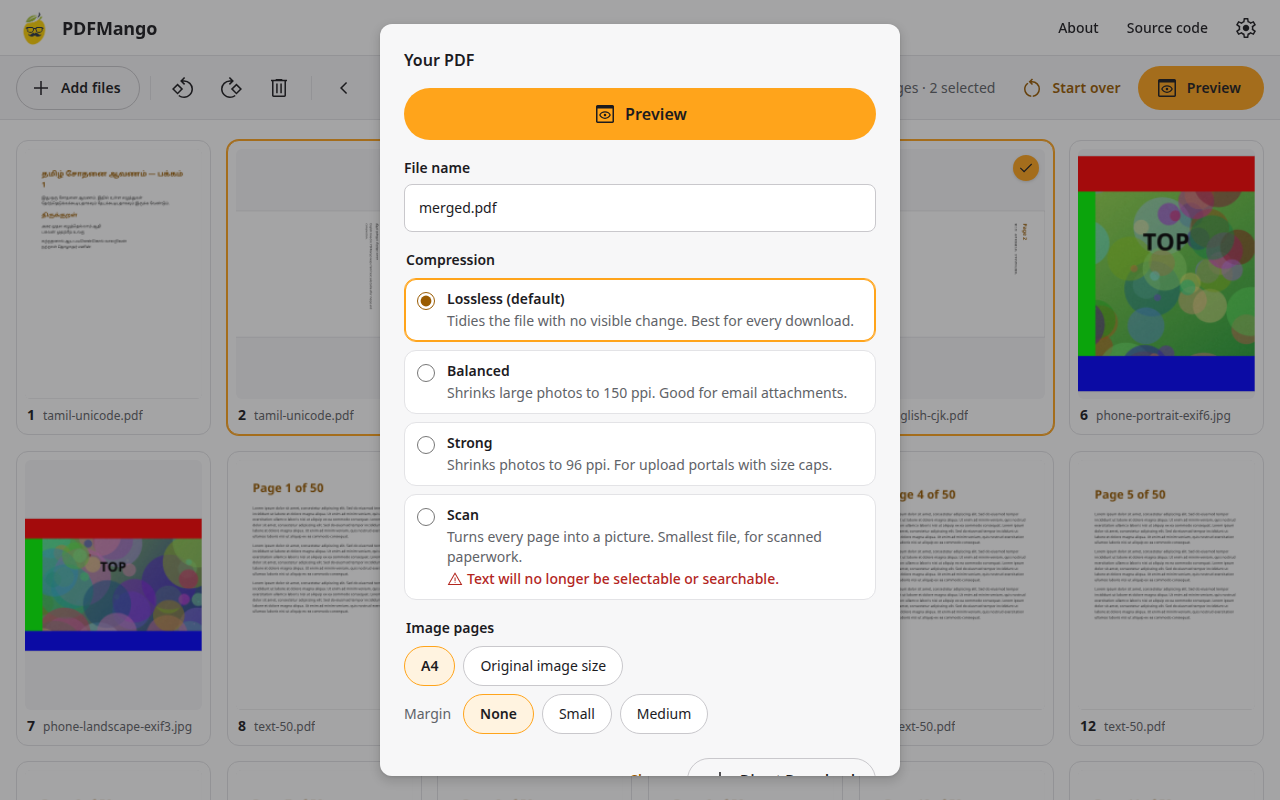
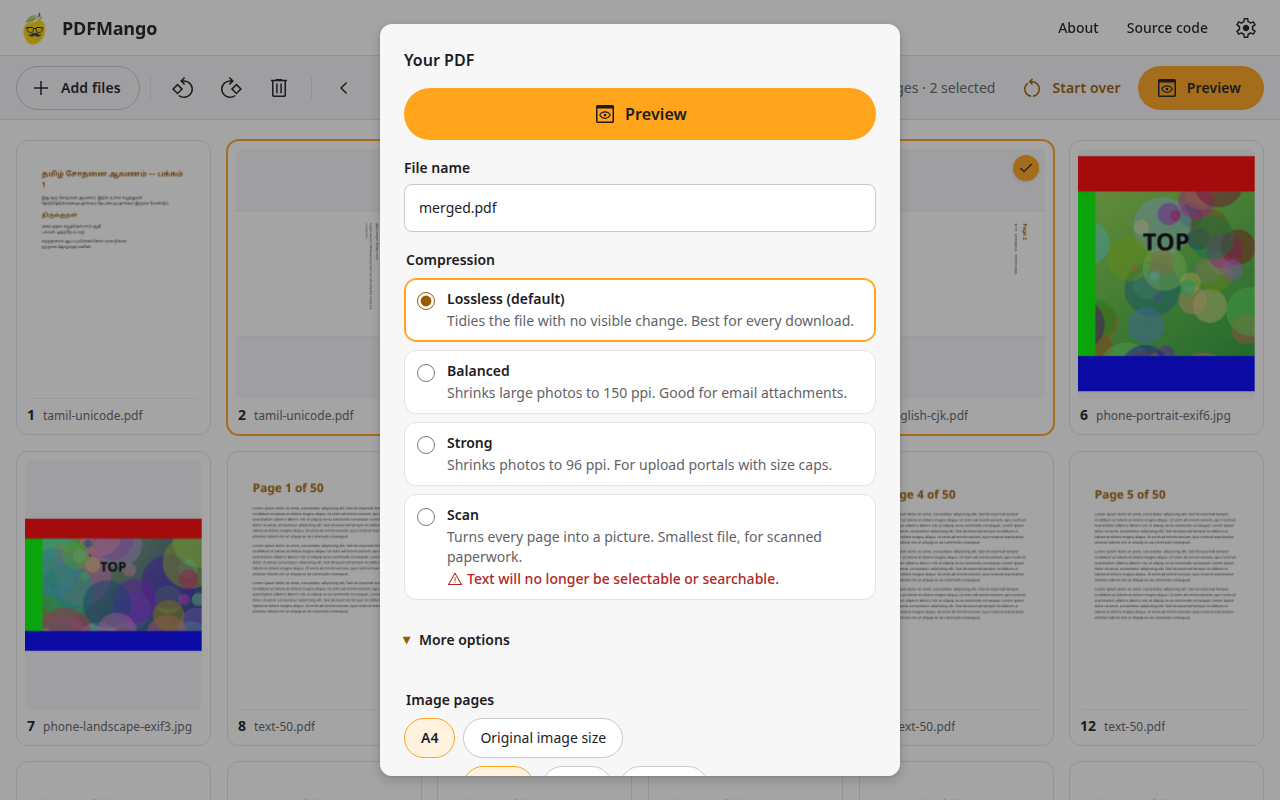
Preview: size and email check, Try another level; Share first on phones; shorter popup on phones
- Preview shows the file size up front with an email check (fine under
  10 MB; warns above) and a Try another level button that returns to the
  popup with every choice kept.
- On phones where sharing works, Share is the main button.
- The popup keeps the level, file name and image options for the rest of
  the visit; untouched values still follow new pages and Settings.
- On phones, Image pages and notes fold under "More options · N notes".

Claude-Session: https://claude.ai/code/session_01HY5Sj5pXtUsR9CEWAk1fRC

Changed region(s): [[0.3125, 0.7812, 0.4688, 0.9375], [0.5, 0.875, 0.5312, 0.9062]]

diff --git a/src/components/DownloadDialog.svelte b/src/components/DownloadDialog.svelte
@@ -19,13 +19,24 @@
   let imageMargin = $state<ImageMargin>(settings.current.imageDefaultMargin);
   const levelList = $derived(levels(settings.current));
 
-  // Each time the dialog opens: a fresh default name, and image options from the visitor's settings.
+  // Choices are kept for the rest of the visit (so "Try another level" comes back to them). On each
+  // open, only values the visitor hasn't changed follow new defaults: the file name follows the pages,
+  // and the image options follow Settings.
   let wasOpen = false;
+  let lastDefaultName = '';
+  let lastDefaults = { size: settings.current.imageDefaultSize, margin: settings.current.imageDefaultMargin };
+  /** On phones the less common options start folded away to keep the sheet short. */
+  let moreOpen = $state(true);
   $effect(() => {
     if (open && !wasOpen) {
-      fileName = defaultFileName(app.usedSources());
-      imagePageSize = settings.current.imageDefaultSize;
-      imageMargin = settings.current.imageDefaultMargin;
+      const name = defaultFileName(app.usedSources());
+      if (!fileName.trim() || fileName === lastDefaultName) fileName = name;
+      lastDefaultName = name;
+      const s = settings.current;
+      if (s.imageDefaultSize !== lastDefaults.size) imagePageSize = s.imageDefaultSize;
+      if (s.imageDefaultMargin !== lastDefaults.margin) imageMargin = s.imageDefaultMargin;
+      lastDefaults = { size: s.imageDefaultSize, margin: s.imageDefaultMargin };
+      moreOpen = !matchMedia('(max-width: 720px)').matches;
     }
     wasOpen = open;
   });
@@ -101,26 +112,31 @@
       {/each}
     </fieldset>
 
-    {#if app.hasImagePages}
-      <fieldset disabled={job.running}>
-        <legend>Image pages</legend>
-        <div class="segmented" role="radiogroup" aria-label="Page size">
-          <label class:checked={imagePageSize === 'A4'}><input type="radio" value="A4" bind:group={imagePageSize} />A4</label>
-          <label class:checked={imagePageSize === 'original'}><input type="radio" value="original" bind:group={imagePageSize} />Original image size</label>
-        </div>
-        <div class="segmented" role="radiogroup" aria-label="Margin">
-          <span class="seg-label">Margin</span>
-          {#each MARGINS as m (m.id)}
-            <label class:checked={imageMargin === m.id}><input type="radio" value={m.id} bind:group={imageMargin} />{m.label}</label>
-          {/each}
-        </div>
-      </fieldset>
-    {/if}
+    {#if app.hasImagePages || notices.length}
+      <details class="more" bind:open={moreOpen}>
+        <summary>More options{notices.length ? ` · ${notices.length} ${notices.length === 1 ? 'note' : 'notes'}` : ''}</summary>
+        {#if app.hasImagePages}
+          <fieldset disabled={job.running}>
+            <legend>Image pages</legend>
+            <div class="segmented" role="radiogroup" aria-label="Page size">
+              <label class:checked={imagePageSize === 'A4'}><input type="radio" value="A4" bind:group={imagePageSize} />A4</label>
+              <label class:checked={imagePageSize === 'original'}><input type="radio" value="original" bind:group={imagePageSize} />Original image size</label>
+            </div>
+            <div class="segmented" role="radiogroup" aria-label="Margin">
+              <span class="seg-label">Margin</span>
+              {#each MARGINS as m (m.id)}
+                <label class:checked={imageMargin === m.id}><input type="radio" value={m.id} bind:group={imageMargin} />{m.label}</label>
+              {/each}
+            </div>
+          </fieldset>
+        {/if}
 
-    {#if notices.length}
-      <ul class="notices">
-        {#each notices as n (n)}<li><Icon name="info" size={18} /> {n}</li>{/each}
-      </ul>
+        {#if notices.length}
+          <ul class="notices">
+            {#each notices as n (n)}<li><Icon name="info" size={18} /> {n}</li>{/each}
+          </ul>
+        {/if}
+      </details>
     {/if}
   </form>
 
@@ -248,6 +264,34 @@
     position: absolute;
     opacity: 0;
     pointer-events: none;
+  }
+  .more {
+    display: flex;
+    flex-direction: column;
+    gap: 16px;
+  }
+  .more summary {
+    min-height: 44px;
+    display: flex;
+    align-items: center;
+    gap: 8px;
+    font-weight: 600;
+    cursor: pointer;
+    list-style: none;
+  }
+  .more summary::-webkit-details-marker {
+    display: none;
+  }
+  .more summary::before {
+    content: '▸';
+    color: var(--mango-ink);
+    transition: transform var(--motion) var(--ease);
+  }
+  .more[open] summary::before {
+    transform: rotate(90deg);
+  }
+  .more[open] > :global(*:not(summary)) {
+    margin-top: 12px;
   }
   .notices {
     display: flex;

diff --git a/src/components/ResultPreview.svelte b/src/components/ResultPreview.svelte
@@ -1,21 +1,25 @@
 <script lang="ts">
   import { canShareFiles, resultMessage, saveBuilt, shareBuilt, type BuiltPdf } from '../lib/actions.svelte';
   import { Comlink, engine } from '../lib/engine';
-  import { plural } from '../lib/format';
+  import { emailVerdict, formatBytes, plural } from '../lib/format';
+  import { isMobile, readDeviceEnv } from '../lib/limits';
   import { renderLarge } from '../lib/thumbs';
   import type { PageSize } from '../lib/types';
   import { observeVisible } from '../lib/visible';
   import IconButton from './IconButton.svelte';
   import Icon from './Icon.svelte';
 
-  type Props = { built: BuiltPdf | null; onclose: () => void };
-  let { built, onclose }: Props = $props();
+  type Props = { built: BuiltPdf | null; onclose: () => void; onretry: () => void };
+  let { built, onclose, onretry }: Props = $props();
 
   let el: HTMLDialogElement | undefined = $state();
   let sourceId = $state<string | null>(null);
   let pageSizes = $state<PageSize[]>([]);
   let failed = $state(false);
   const canShare = canShareFiles();
+  // On phones, sending the file on is usually the goal (and "Save to Files" is in the share sheet).
+  const shareFirst = canShare && isMobile(readDeviceEnv());
+  const verdict = $derived(built ? emailVerdict(built.outputSize) : null);
 
   // Open a copy of the finished PDF in the engine (the original stays here for download/share).
   $effect(() => {
@@ -100,6 +104,11 @@
       </div>
       <IconButton icon="close" label="Back" onclick={onclose} />
     </header>
+    <div class="size" class:warn={!verdict?.ok}>
+      <span class="big">{formatBytes(built.outputSize)}</span>
+      <span class="verdict">{verdict?.text}</span>
+      <button type="button" class="btn btn-text retry" onclick={onretry}>Try another level</button>
+    </div>
 
     <div class="pages">
       {#if failed}
@@ -118,10 +127,10 @@
 
     <footer>
       <button type="button" class="btn btn-text" onclick={onclose}>Back</button>
+      <button type="button" class="btn {shareFirst ? 'btn-outlined' : 'btn-filled'}" onclick={download}><Icon name="download" /> Download</button>
       {#if canShare}
-        <button type="button" class="btn btn-outlined" onclick={() => built && shareBuilt(built)}><Icon name="share" /> Share</button>
+        <button type="button" class="btn {shareFirst ? 'btn-filled' : 'btn-outlined'}" onclick={() => built && shareBuilt(built)}><Icon name="share" /> Share</button>
       {/if}
-      <button type="button" class="btn btn-filled" onclick={download}><Icon name="download" /> Download</button>
     </footer>
   {/if}
 </dialog>
@@ -140,7 +149,7 @@
   }
   .result[open] {
     display: grid;
-    grid-template-rows: auto 1fr auto;
+    grid-template-rows: auto auto 1fr auto;
   }
   .result::backdrop {
     background: var(--scrim);
@@ -160,6 +169,38 @@
     justify-content: flex-end;
     border-top: 1px solid var(--outline);
     padding-bottom: calc(8px + env(safe-area-inset-bottom));
+  }
+  .size {
+    display: flex;
+    flex-wrap: wrap;
+    align-items: center;
+    gap: 4px 12px;
+    padding: 10px 16px;
+    background: var(--bg);
+    color: var(--text);
+    border-bottom: 1px solid var(--outline);
+  }
+  .size.warn {
+    background: var(--mango-tint);
+    color: var(--mango-ink);
+  }
+  .big {
+    font-size: 22px;
+    font-weight: 700;
+    line-height: 28px;
+  }
+  .verdict {
+    flex: 1;
+    min-width: 160px;
+    font-weight: 500;
+  }
+  .retry {
+    min-height: 40px;
+    padding: 0 8px;
+    margin-left: -8px;
+    color: inherit;
+    text-decoration: underline;
+    text-underline-offset: 3px;
   }
   .title {
     display: flex;

diff --git a/tests/e2e/app.spec.ts b/tests/e2e/app.spec.ts
@@ -349,3 +349,42 @@ test('Share hands the PDF to the system share sheet where supported', async ({ p
     { name: 'tamil-unicode-edited.pdf', type: 'application/pdf', size: expect.any(Number) },
   ]);
 });
+
+test('preview shows the size verdict; Try another level keeps the level and file name', async ({ page }) => {
+  await page.goto('/');
+  await addFiles(page, ['tamil-unicode.pdf'], 3);
+  await page.locator('.toolbar .btn-filled').click();
+  const dlg = page.getByRole('dialog', { name: 'Your PDF' });
+  await dlg.getByLabel('File name').fill('my-report.pdf');
+  await dlg.getByText('Balanced', { exact: true }).click();
+  await dlg.getByRole('button', { name: /^Preview/ }).click();
+  const preview = page.getByRole('dialog', { name: 'Preview of the PDF to download' });
+  await expect(preview).toContainText('Small enough to email');
+  await expect(preview).toContainText('my-report.pdf');
+  await preview.getByRole('button', { name: 'Try another level' }).click();
+  await expect(preview).toBeHidden();
+  await expect(dlg).toBeVisible();
+  await expect(dlg.getByRole('radio', { name: /Balanced/ })).toBeChecked();
+  await expect(dlg.getByLabel('File name')).toHaveValue('my-report.pdf');
+  // Closing and opening again later in the visit still remembers the level.
+  await dlg.getByRole('button', { name: 'Close' }).click();
+  await page.locator('.toolbar .btn-filled').click();
+  await expect(dlg.getByRole('radio', { name: /Balanced/ })).toBeChecked();
+});
+
+test('phones: extra options start folded; Share is the main button where sharing works @phone', async ({ page }) => {
+  test.skip(!/phone/.test(test.info().project.name), 'phone layout only');
+  await page.addInitScript(() => Object.assign(navigator, { canShare: () => true, share: async () => {} }));
+  await page.goto('/');
+  await addFiles(page, ['phone-portrait-exif6.jpg'], 1);
+  await page.locator('.bottombar .download').click();
+  const dlg = page.getByRole('dialog', { name: 'Your PDF' });
+  await expect(dlg.getByText('More options')).toBeVisible();
+  await expect(dlg.getByText('Original image size')).toBeHidden();
+  await dlg.getByText('More options').click();
+  await expect(dlg.getByText('Original image size')).toBeVisible();
+  await dlg.getByRole('button', { name: 'Preview & Share' }).click();
+  const preview = page.getByRole('dialog', { name: 'Preview of the PDF to download' });
+  await expect(preview.getByRole('button', { name: 'Share' })).toHaveClass(/btn-filled/);
+  await expect(preview.getByRole('button', { name: 'Download' })).toHaveClass(/btn-outlined/);
+});

diff --git a/tests/unit/helpers.test.ts b/tests/unit/helpers.test.ts
@@ -2,7 +2,7 @@ import { describe, expect, it } from 'vitest';
 import { baseName, defaultFileName, finalFileName } from '../../src/lib/filenames';
 import { checkPages, checkSize, isMobile, sizeLimit } from '../../src/lib/limits';
 import { sniff } from '../../src/lib/filetypes';
-import { formatBytes, resultLine } from '../../src/lib/format';
+import { emailVerdict, formatBytes, resultLine } from '../../src/lib/format';
 import { planFor } from '../../src/lib/compression';
 import { DEFAULTS, marginPtFor } from '../../src/lib/settings';
 
@@ -97,5 +97,14 @@ describe('compression options', () => {
   });
   it('maps margins to points', () => {
     expect([marginPtFor(DEFAULTS, 'none'), marginPtFor(DEFAULTS, 'small'), marginPtFor(DEFAULTS, 'medium')]).toEqual([0, 18, 36]);
+  });
+});
+
+describe('emailVerdict', () => {
+  it('says whether the file suits email', () => {
+    expect(emailVerdict(570 * 1024)).toEqual({ text: 'Small enough to email', ok: true });
+    expect(emailVerdict(10 * 1048576)).toMatchObject({ ok: true });
+    expect(emailVerdict(15 * 1048576).text).toMatch(/some email/);
+    expect(emailVerdict(30 * 1048576).text).toMatch(/most email/);
   });
 });

diff --git a/src/lib/format.ts b/src/lib/format.ts
@@ -15,3 +15,16 @@ export function resultLine(input: number, output: number): string {
 export function plural(n: number, one: string, many = `${one}s`): string {
   return `${n.toLocaleString('en-US')} ${n === 1 ? one : many}`;
 }
+
+export type SizeVerdict = { text: string; ok: boolean };
+
+/**
+ * Whether a file is a sensible email attachment. Many workplace mail systems stop at 10 MB;
+ * Gmail and Outlook.com stop at 20–25 MB.
+ */
+export function emailVerdict(bytes: number): SizeVerdict {
+  const mb = bytes / (1024 * 1024);
+  if (mb <= 10) return { text: 'Small enough to email', ok: true };
+  if (mb <= 20) return { text: 'May be too big for some email; Balanced or Strong can shrink it', ok: false };
+  return { text: 'Too big for most email; try Balanced, Strong or Scan', ok: false };
+}

diff --git a/src/App.svelte b/src/App.svelte
@@ -158,7 +158,14 @@
 {/if}
 
 <DownloadDialog open={downloadOpen} onclose={() => (downloadOpen = false)} onpreview={(b) => (built = b)} />
-<ResultPreview {built} onclose={() => (built = null)} />
+<ResultPreview
+  {built}
+  onclose={() => (built = null)}
+  onretry={() => {
+    built = null;
+    downloadOpen = true;
+  }}
+/>
 <SettingsDialog open={settingsOpen} onclose={() => (settingsOpen = false)} />
 <PasswordDialog />
 <Preview uid={previewUid} onclose={() => (previewUid = null)} onnavigate={(uid) => (previewUid = uid)} />

diff --git a/prompt-history.md b/prompt-history.md
@@ -34,6 +34,10 @@ Venkatarangan Thirumalai first worked out the idea with **Claude Cowork**: what 
 
 11. > the download, preview and share buttons flow is not clear from enduser perspective. In the first level where the pages thumbnail are shown, rename the download button to preview. in the popup that comes: rename the preview button as "Preview & Share" and move the button to the top of the popup for easy access in mobile; rename download button below as "Direct Download". Any other suggestions you may have let me know
 
+12. > 1. OK, 2. OK, 3. OK. 4. OK. 5. OK. Go ahead and implement your suggestions, review it afterwards. publish it.
+
+    The five suggestions: Share as the main button on phones; remember the chosen level during a visit; show the file size and an email check on the preview; a "Try another level" button; fold the less common options on phones.
+
 ## What changed from the plan
 
 | Topic | Plan said | What was built |

diff --git a/README.md b/README.md
@@ -22,7 +22,7 @@ A free, open-source PDF tool that runs entirely in your browser. Your files neve
 - Reorder (drag, or Alt+Arrow keys), rotate and delete pages; undo and redo.
 - Photos become upright pages, A4 or original size, with GPS and other hidden details removed.
 - Four compression levels: Lossless, Balanced, Strong and Scan.
-- Preview the finished PDF before downloading, and share it straight to other apps on phones.
+- Preview the finished PDF (with its size, and whether it's small enough to email) before downloading, and share it straight to other apps on phones.
 - Keeps Tamil, CJK and all other text selectable.
 - Handles password-protected and damaged PDFs, up to 1,000 pages.
 - Works on phones and offline, with no upload, account or ads.

diff --git a/CHANGELOG.md b/CHANGELOG.md
@@ -10,4 +10,4 @@ First release.
 - Handles password-protected, restricted and damaged PDFs, up to 1,000 pages.
 - Works on phones, works offline after the first visit, and can be used with the keyboard alone.
 - Settings dialog to change the defaults in your own browser.
-- Preview the finished PDF before downloading; Share to other apps on phones.
+- Preview the finished PDF before downloading, with its size and an email check; Share to other apps on phones.
